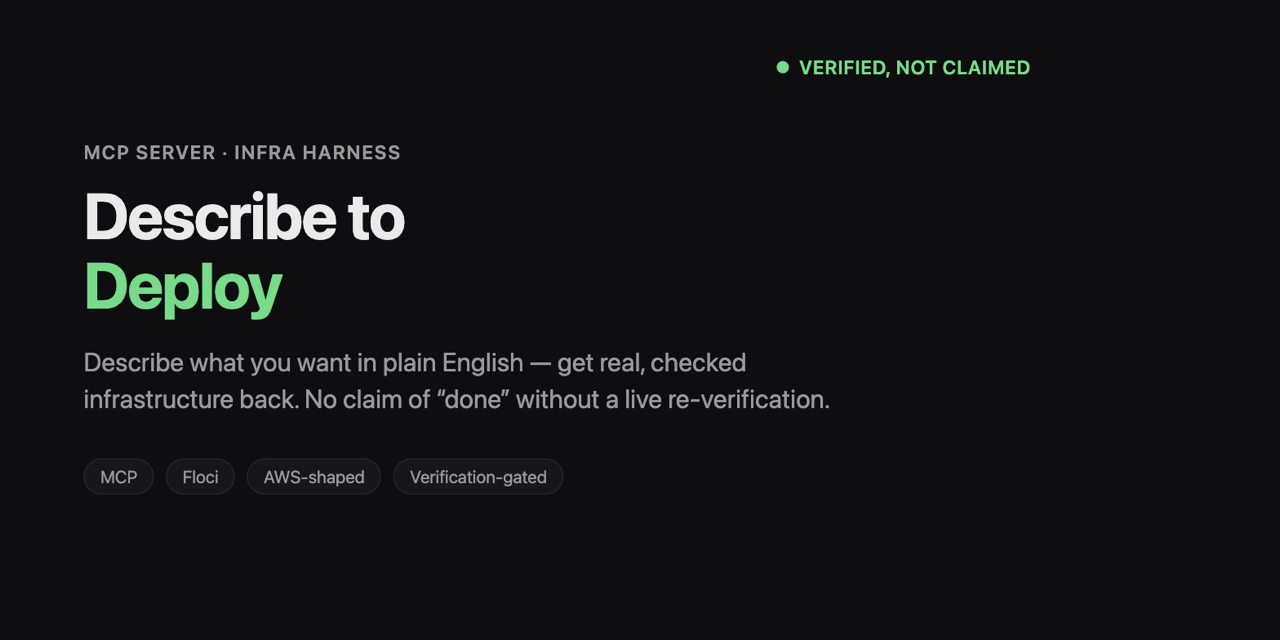
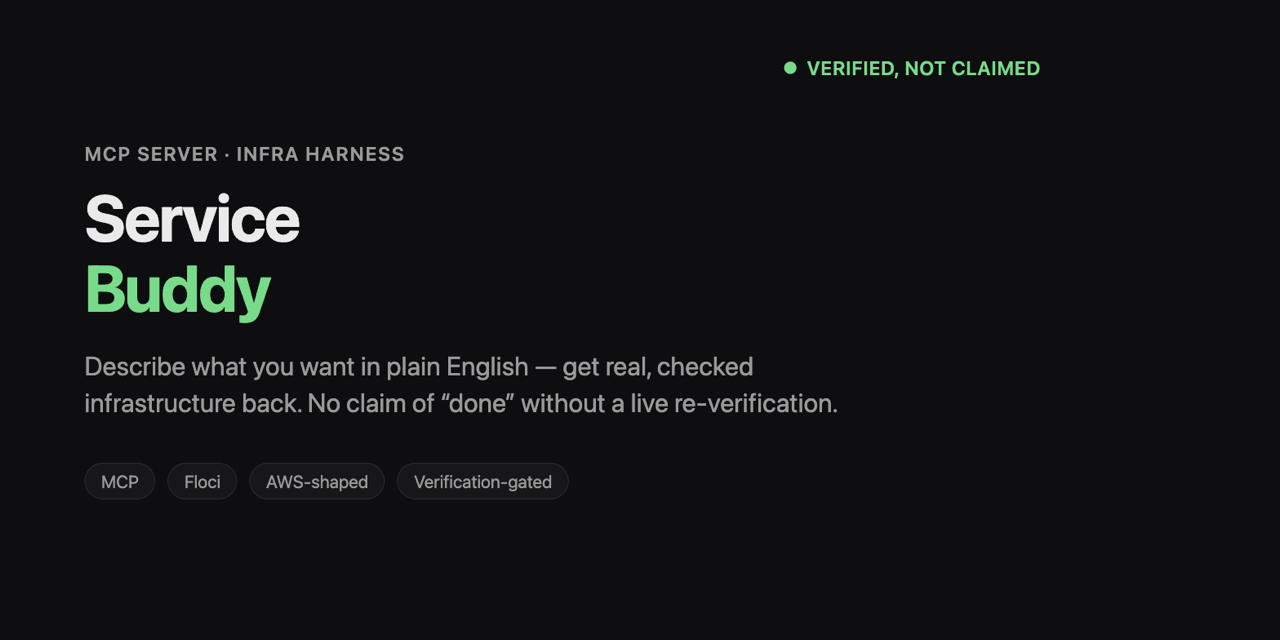
chore: rename product and repo to Service Buddy (#104)
Full rename per the 2026-09-25 follow-up interview decision: GitHub repo
renamed ahmedkeewan/describe-to-deploy -> ahmedkeewan/service-buddy (`gh repo
rename`), local remote updated, About description updated. Copy pass across
every file that named the product or the old repo URL: README.md and
docs/index.html's H1/title, every GitHub URL in both, mcpb/manifest.json's
display_name + repository/homepage/documentation URLs, and the .mcpb output
filename convention in mcpb/build.sh, mcpb/README.md, and harness/README.md.
Rebuilt and verified the .mcpb bundle under the new name.

Regenerated docs/assets/social-preview.png from scratch under the new
wordmark (not a find-and-replace on the old design, per the plan's own open
question) and re-uploaded it via GitHub Settings.

Explicitly NOT renamed: the internal MCP server identifier
`floci-control-plane` (registered in claude_desktop_config.json / .mcp.json
/ the .mcpb manifest's `name` field) -- a technical wiring identifier, not
user-facing branding.

Checked before renaming: no external links to the old Pages URL or repo
found beyond this repo's own GitHub issue comments, per the plan's added
check step.

Claude-Session: https://claude.ai/code/session_013DmUZ2Dc4nrPcbbphRra9N

diff --git a/docs/index.html b/docs/index.html
@@ -3,7 +3,7 @@
 <head>
 <meta charset="utf-8">
 <meta name="viewport" content="width=device-width, initial-scale=1">
-<title>Describe to Deploy</title>
+<title>Service Buddy</title>
 <style>
   :root {
     color-scheme: light dark;
@@ -657,7 +657,7 @@
 </head>
 <body>
 <main>
-  <h1>Describe to Deploy</h1>
+  <h1>Service Buddy</h1>
   <p class="tagline">Describe what you want in plain English &mdash; user accounts, file uploads,
   background jobs, and 10 more &mdash; and watch it go live in under a minute. It only ever
   tells you it's ready once it's actually checked.</p>
@@ -803,7 +803,7 @@
     </div>
     <p class="note">
       Don't take our word for it &mdash; read the
-      <a href="https://github.com/ahmedkeewan/describe-to-deploy/blob/main/tasks/README.md">full
+      <a href="https://github.com/ahmedkeewan/service-buddy/blob/main/tasks/README.md">full
       benchmark writeup</a>, honest misses included.
     </p>
 
@@ -868,7 +868,7 @@
         <div class="step-num">1</div>
         <div>
           <h3>Get the bundle</h3>
-          <p>Grab the <code>.mcpb</code> file from the repo's <a href="https://github.com/ahmedkeewan/describe-to-deploy/tree/main/mcpb">mcpb/ folder</a>, or build it yourself with <code>./mcpb/build.sh</code>.</p>
+          <p>Grab the <code>.mcpb</code> file from the repo's <a href="https://github.com/ahmedkeewan/service-buddy/tree/main/mcpb">mcpb/ folder</a>, or build it yourself with <code>./mcpb/build.sh</code>.</p>
         </div>
       </div>
       <div class="step">
@@ -892,7 +892,7 @@
         <div class="step-num">1</div>
         <div>
           <h3>Clone the repo</h3>
-          <p>Get the source onto your machine from <a href="https://github.com/ahmedkeewan/describe-to-deploy">the repo</a>.</p>
+          <p>Get the source onto your machine from <a href="https://github.com/ahmedkeewan/service-buddy">the repo</a>.</p>
         </div>
       </div>
       <div class="step">
@@ -923,7 +923,7 @@
 
     <p class="note">
       See the
-      <a href="https://github.com/ahmedkeewan/describe-to-deploy#for-founders">README's Founders
+      <a href="https://github.com/ahmedkeewan/service-buddy#for-founders">README's Founders
       section</a> for the full picture.
     </p>
   </section>
@@ -965,14 +965,14 @@
     <h2>For engineers</h2>
     <p>
       This is the founder-facing side of a larger project. See the
-      <a href="https://github.com/ahmedkeewan/describe-to-deploy">main repository</a>
+      <a href="https://github.com/ahmedkeewan/service-buddy">main repository</a>
       for the architecture, design decisions, and benchmark data.
     </p>
     <p class="note">
       Design patterns worth stealing:
-      <a href="https://github.com/ahmedkeewan/describe-to-deploy/blob/main/research/agdr/AgDR-0001-shared-backend-naming-scope-isolation.md">shared-backend naming-scope isolation</a>
+      <a href="https://github.com/ahmedkeewan/service-buddy/blob/main/research/agdr/AgDR-0001-shared-backend-naming-scope-isolation.md">shared-backend naming-scope isolation</a>
       &middot;
-      <a href="https://github.com/ahmedkeewan/describe-to-deploy/blob/main/research/agdr/AgDR-0002-flock-based-state-locking.md">flock-based state locking</a>
+      <a href="https://github.com/ahmedkeewan/service-buddy/blob/main/research/agdr/AgDR-0002-flock-based-state-locking.md">flock-based state locking</a>
     </p>
   </section>
 </main>

diff --git a/harness/README.md b/harness/README.md
@@ -102,7 +102,7 @@ python3 -m unittest discover -s harness/tests
 ### Connecting to Claude Desktop
 
 **Recommended: the `.mcpb` Desktop Extension (GH-92).** Run `./mcpb/build.sh` (requires the
-`mcpb` CLI — `npm install -g @anthropic-ai/mcpb`) to produce `mcpb/describe-to-deploy.mcpb`, then
+`mcpb` CLI — `npm install -g @anthropic-ai/mcpb`) to produce `mcpb/service-buddy.mcpb`, then
 double-click it (or drag it onto Claude Desktop) and click Install — no terminal, no JSON editing,
 no path substitution. See [`mcpb/README.md`](../mcpb/README.md) for what the bundle does and does
 not cover.

diff --git a/mcpb/README.md b/mcpb/README.md
@@ -10,7 +10,7 @@ Docker + Floci still need to be running first (`./setup.sh`, run once, or `floci
 
 ```bash
 npm install -g @anthropic-ai/mcpb   # once
-./mcpb/build.sh                     # writes mcpb/describe-to-deploy.mcpb
+./mcpb/build.sh                     # writes mcpb/service-buddy.mcpb
 ```
 
 `build.sh` stages a copy of the exact files `mcp_server.py` needs (mirroring the

diff --git a/README.md b/README.md
@@ -1,4 +1,4 @@
-# Describe to Deploy
+# Service Buddy
 
 This repo has two parts: a working demo harness (an MCP server that turns a plain-language
 product request into real, verified infrastructure) and a research reference on harness
